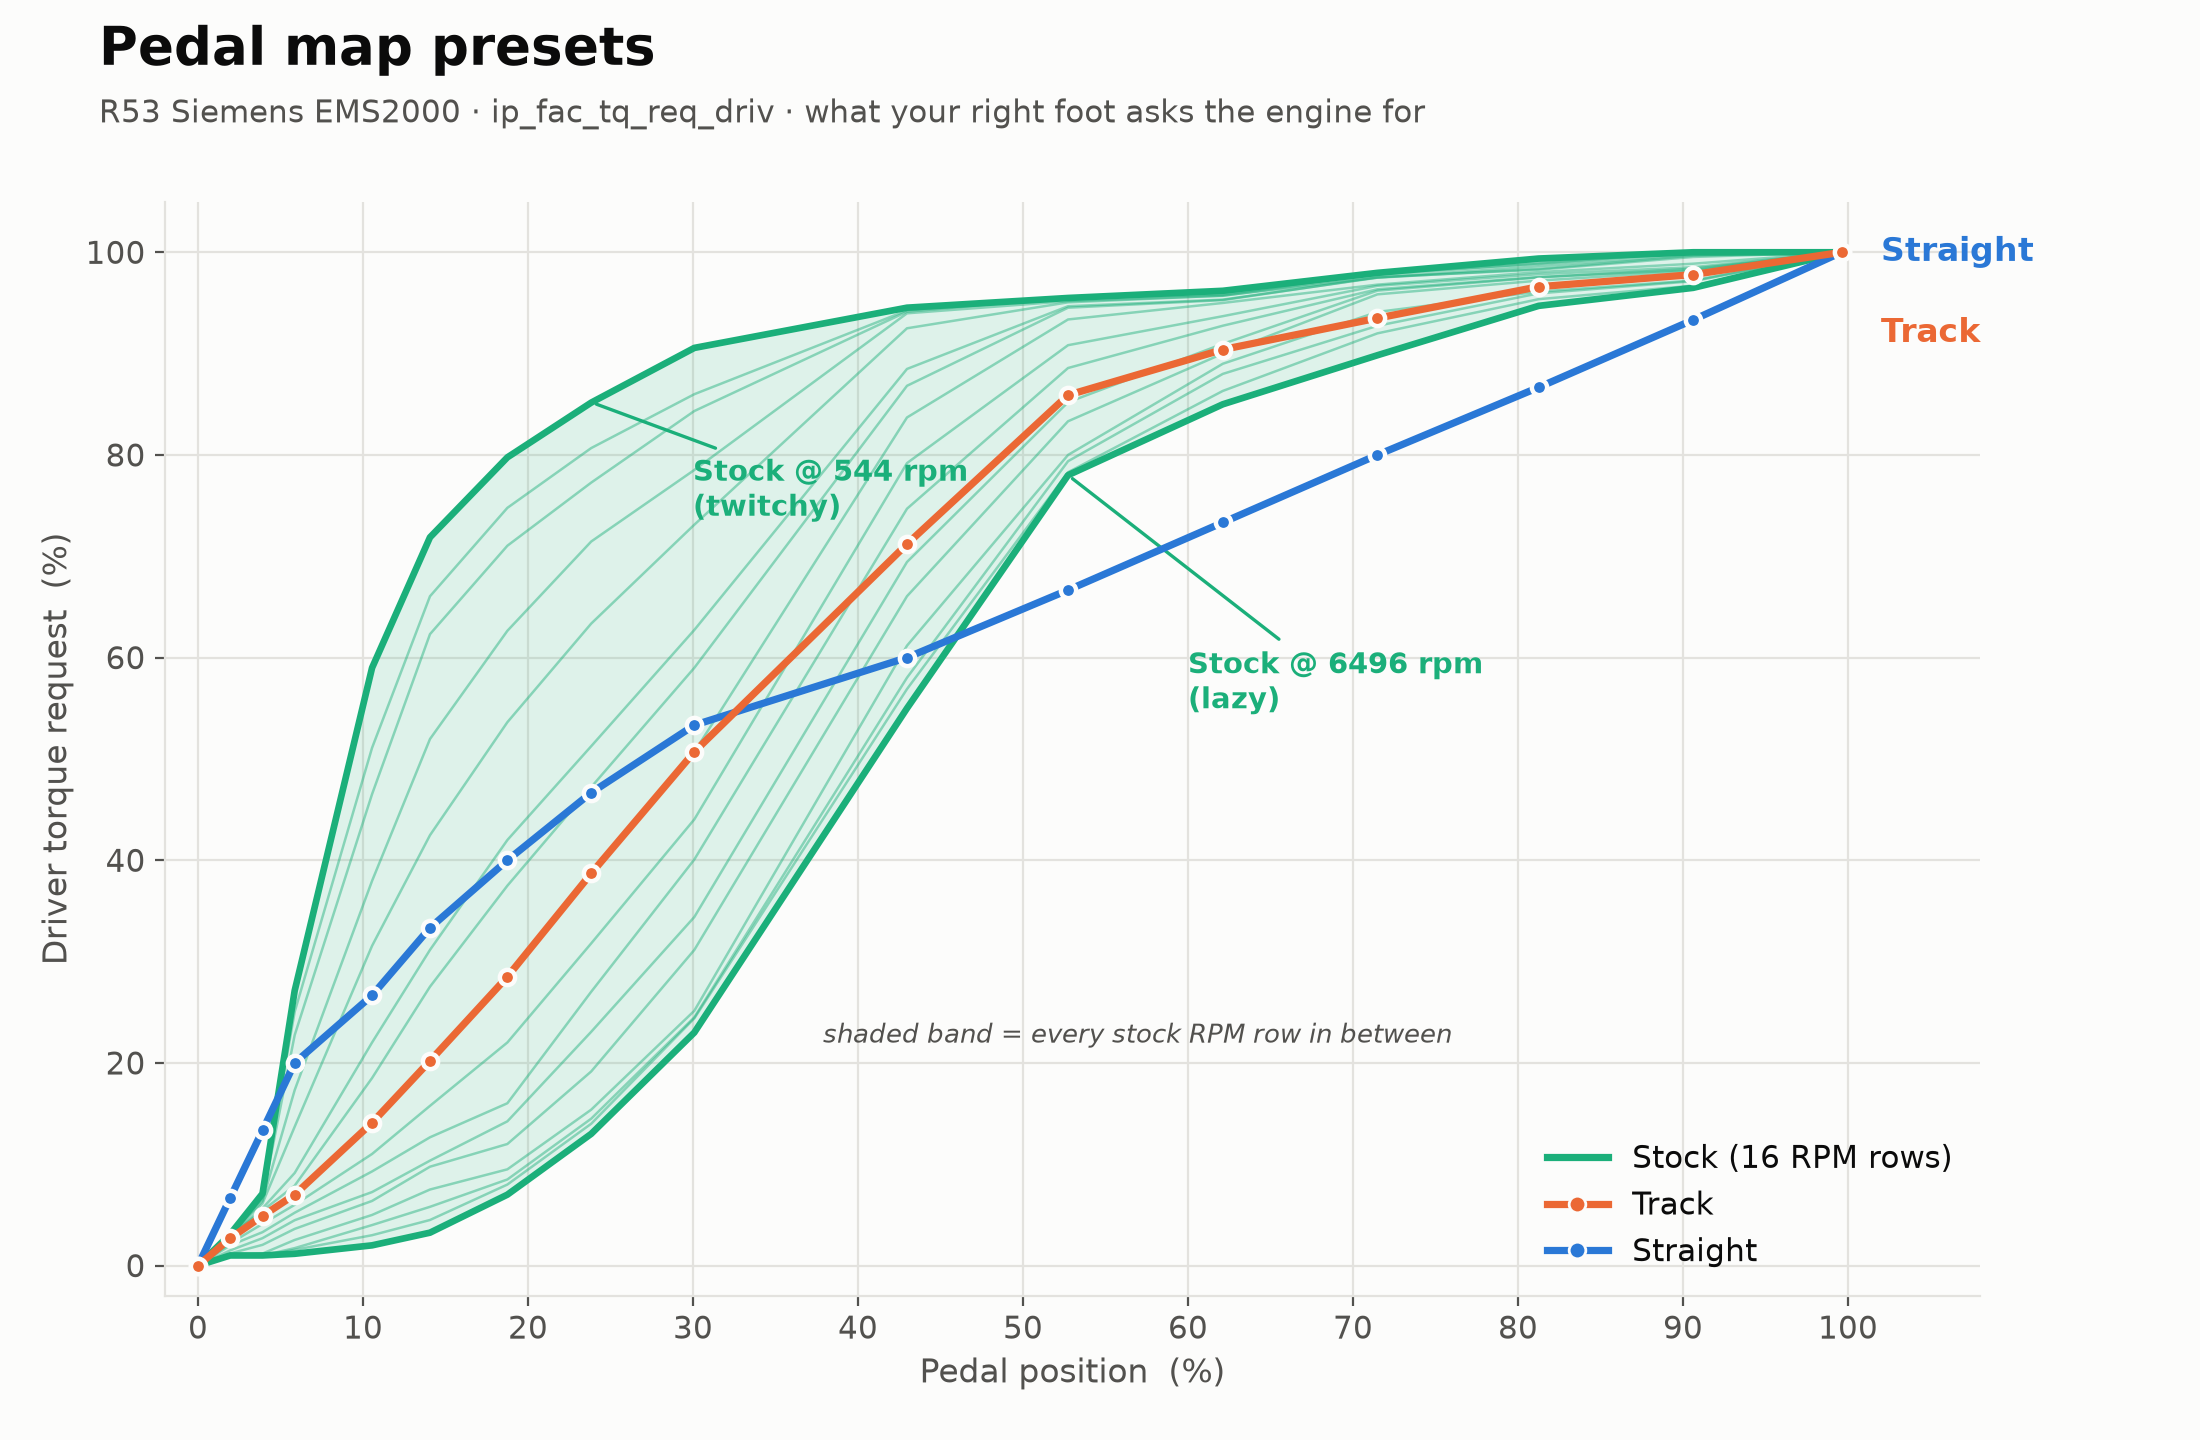
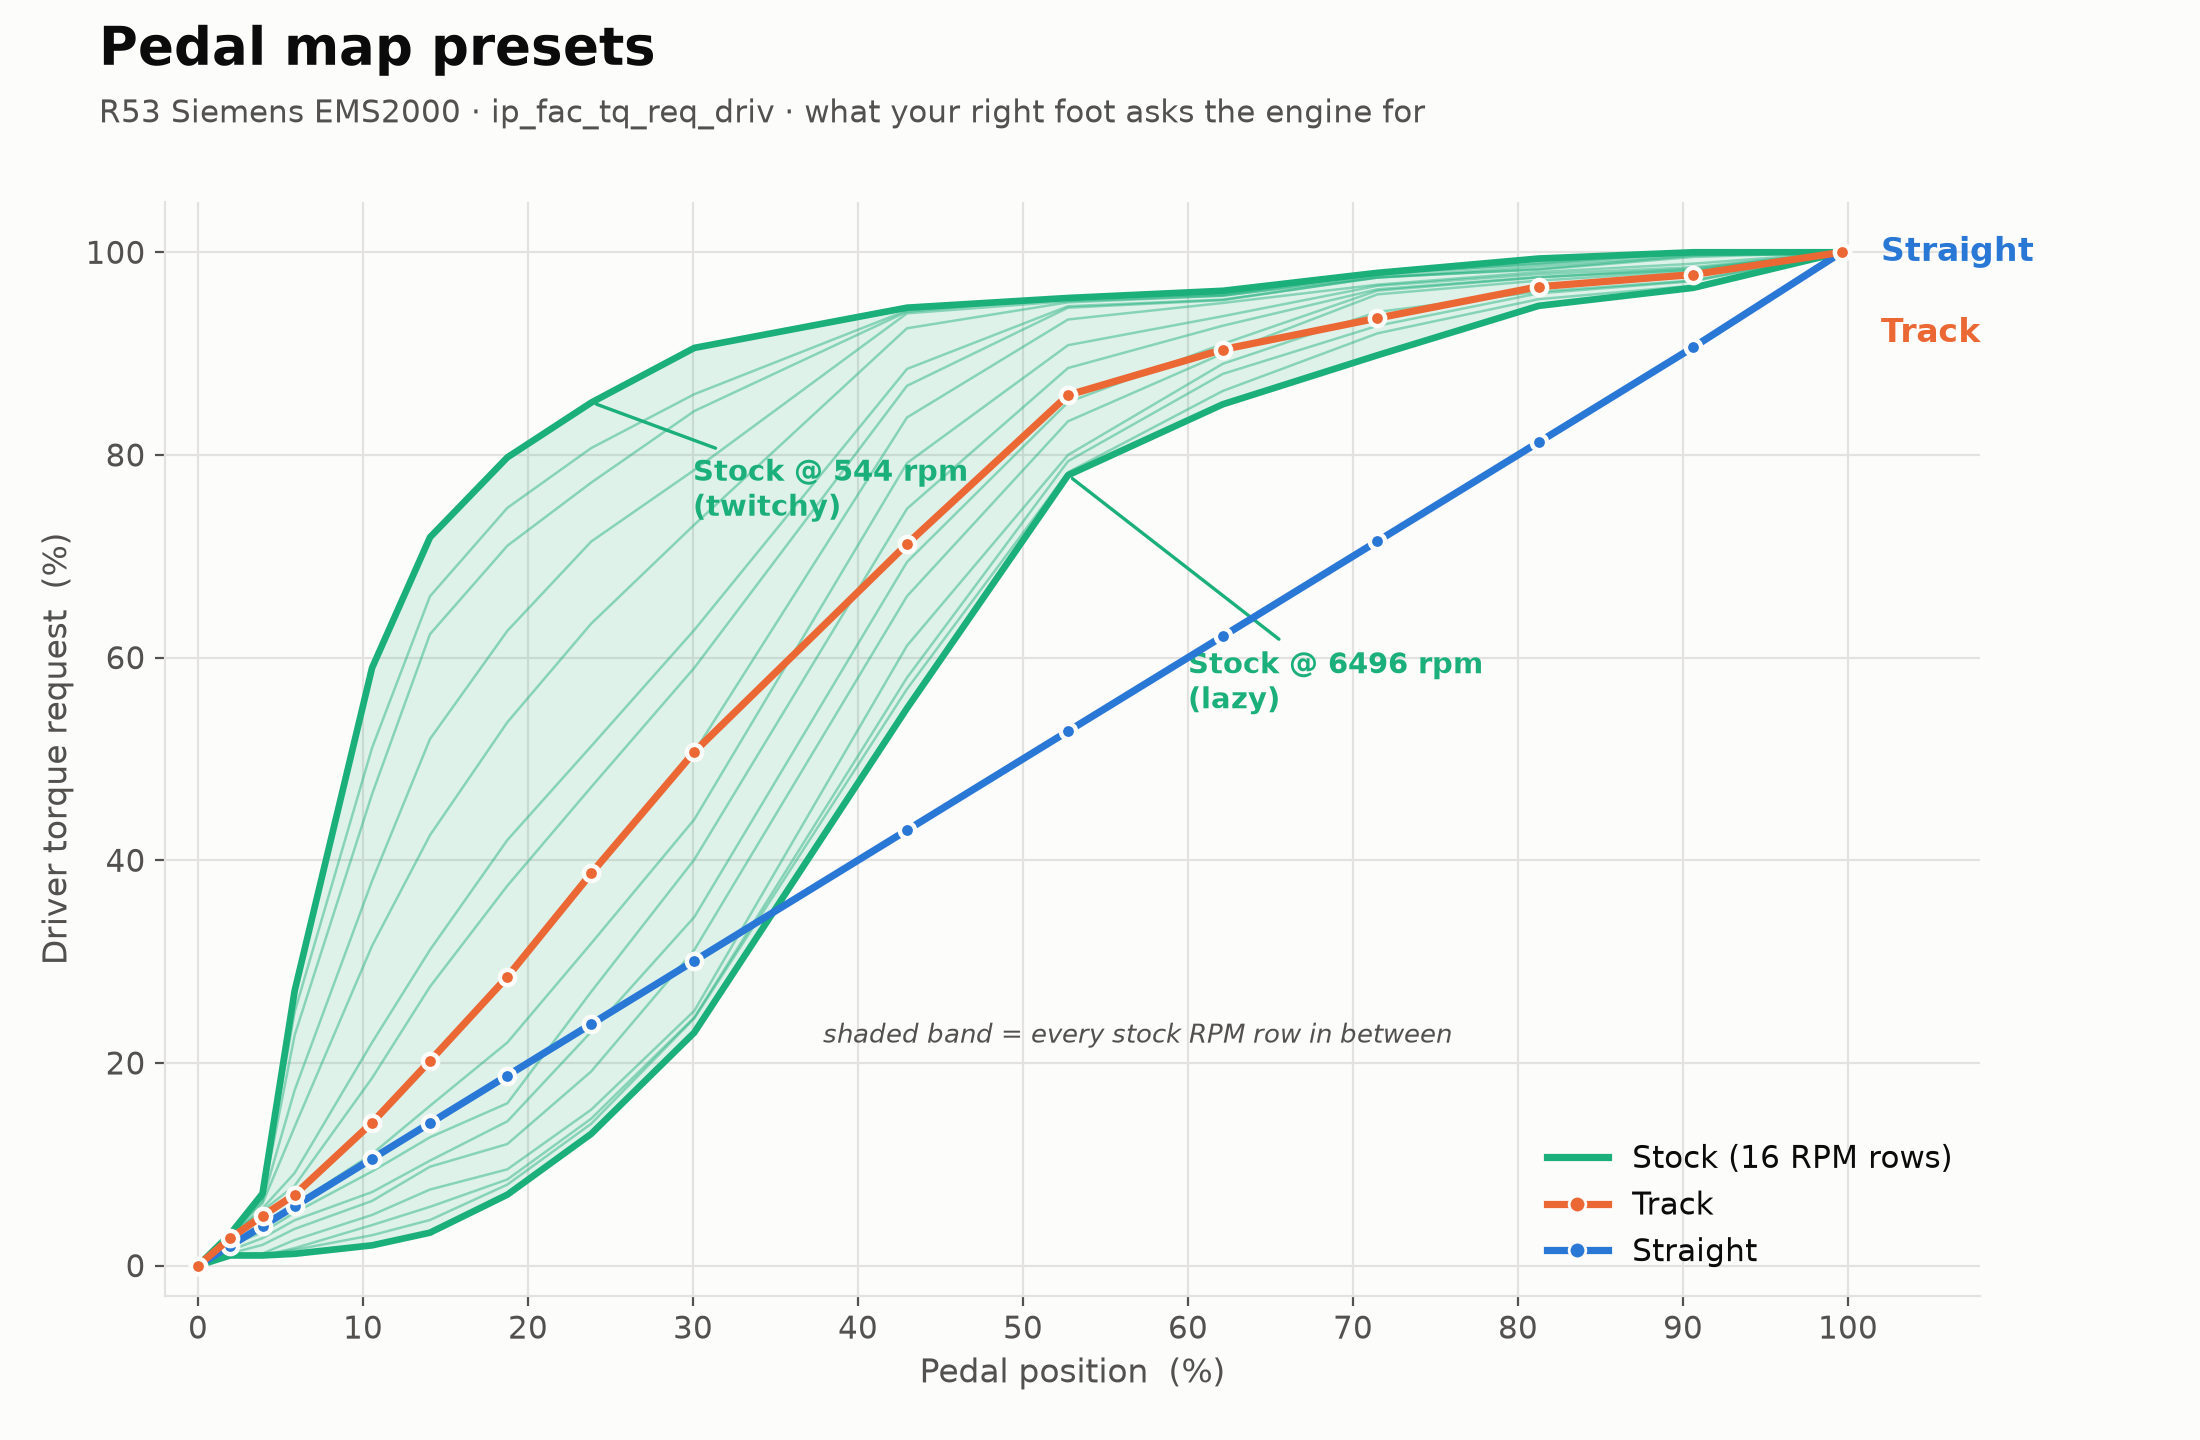
post: Straight preset is now a true 1:1 line; regenerate the chart
The app's Straight map was linear across table columns, not pedal travel,
which made it steep at low pedal. It is now torque = pedal. Chart redrawn
from the new bytes; caption says so.

Claude-Session: https://claude.ai/code/session_012zZnspYNp2Xh792X81Tsv1

diff --git a/_posts/2026-07-24-r53-logger-play-store.md b/_posts/2026-07-24-r53-logger-play-store.md
@@ -142,7 +142,7 @@ Before a quick write, you can tweak the loaded tune **in memory** — no separat
 *Pedal map (Stock / Straight / Track) and cooling fan — Stock, Earlier 216/230 °F, or Even earlier 200/220 °F.*
 
 ![Pedal map presets — Stock, Straight and Track plotted together](/assets/images/r53-logger-play-store/pedal-map-presets.png){:.img-lg}
-*The three pedal presets, plotted from the actual table the app writes. Stock isn't one curve — it's sixteen, one per RPM row, so a quarter of pedal travel asks for 85% torque just off idle and 13% at 6500. Track and Straight put the same curve on every row, so pedal position means the same thing wherever the tach is sitting. WOT is 100% on all three.*
+*The three pedal presets, plotted from the actual table the app writes. Stock isn't one curve — it's sixteen, one per RPM row, so a quarter of pedal travel asks for 85% torque just off idle and 13% at 6500. Track and Straight put the same curve on every row, so pedal position means the same thing wherever the tach is sitting. Straight is exactly that: torque equals pedal, 1:1. WOT is 100% on all three.*
 
 ![Flash options — pops, injectors, redline, pedal](/assets/images/r53-logger-play-store/flash-options.jpg){:.img-md}
 *Same options list — pops, injectors, redline, pedal, idle, and fan all live here.*
